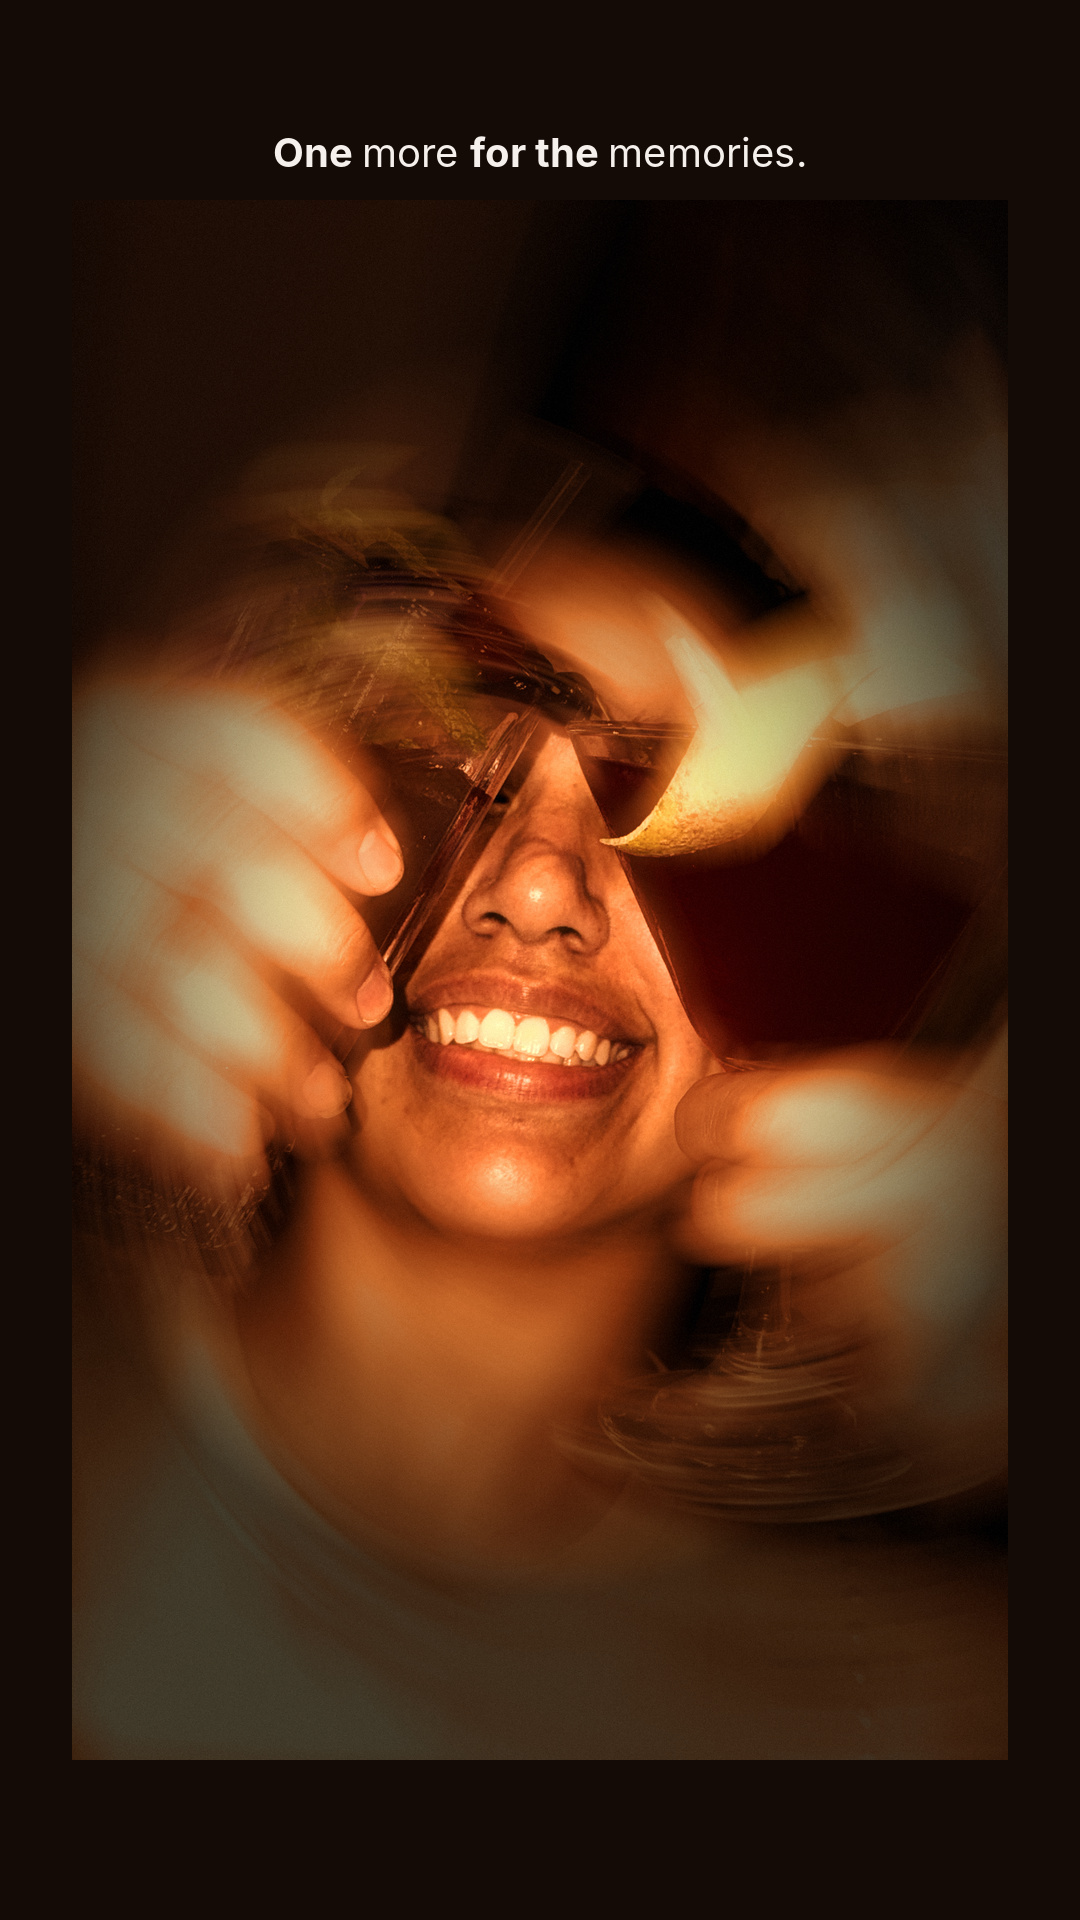
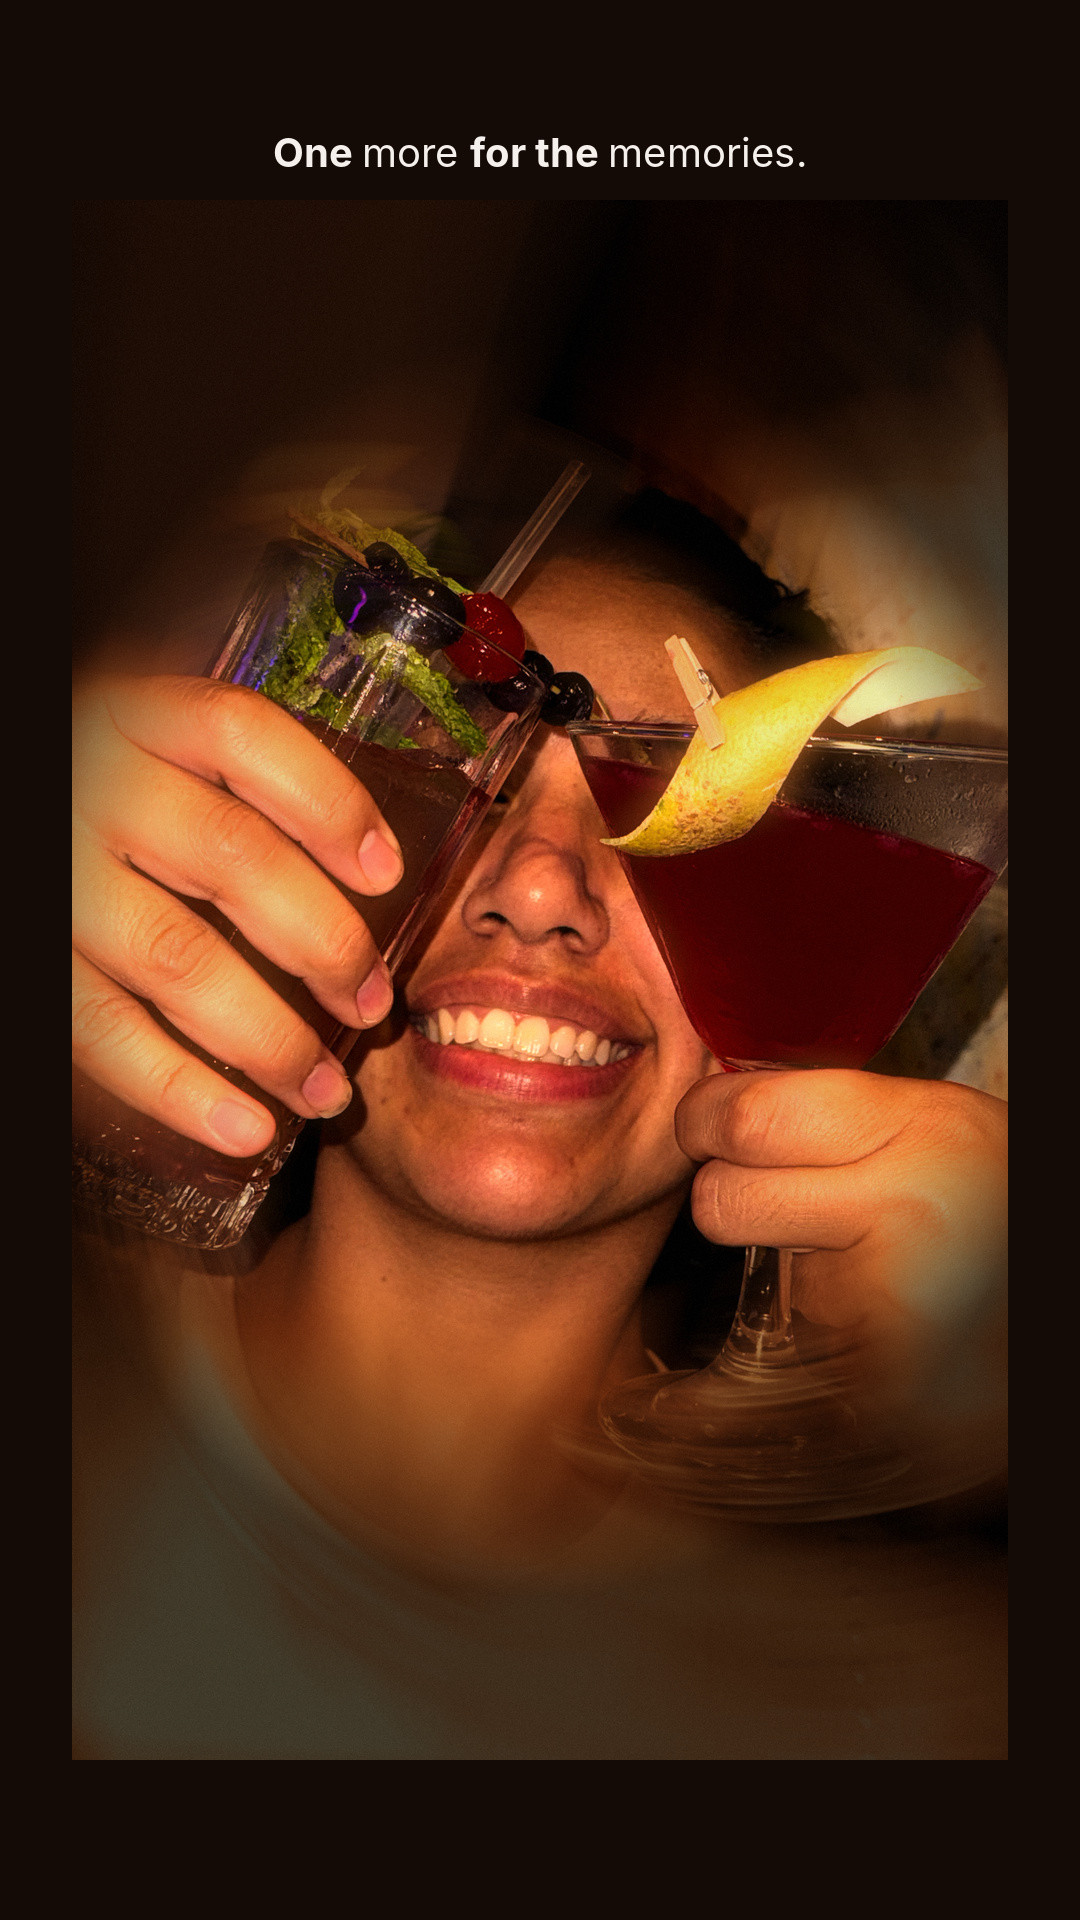
Póster 9:16: tragos nítidos y con sus colores reales
Claude-Session: https://claude.ai/code/session_01W39ENi5Xim2MpeMZM9X4oY

Changed region(s): [[0.0611, 0.25, 0.9472, 0.7188]]

diff --git a/negativo35/spin_poster.py b/negativo35/spin_poster.py
@@ -41,15 +41,19 @@ blur = acc / n
 # sharp core around the face, a ghosted sharp echo outside it
 yy, xx = np.mgrid[0:wh, 0:ww].astype(np.float32)
 d = np.sqrt(((xx-cx)/(ww*0.30))**2 + ((yy-cy)/(ww*0.36))**2)
-core = np.clip(1 - (d-0.55)/0.45, 0, 1)**1.6
+# sharp zone widened to hold both drinks (source px: centre 1380,1900; radii 1400x1150)
+ex, ey, rx, ry = (1380 - x0)*k, 1900*k, 1400*k, 1150*k
+dc = np.sqrt(((xx-ex)/rx)**2 + ((yy-ey)/ry)**2)
+core = np.clip(1 - (dc-0.80)/0.35, 0, 1)**1.4
 core = core[..., None]
 mix = lin*core + blur*(1-core)
 mix = mix*0.86 + lin*0.14*(1-core)      # faint double-exposure ghost
 
 # ---- highlight bloom
 Y = mix @ np.array([0.2126,0.7152,0.0722], np.float32)
-mix = mix*1.45
-Y = Y*1.45
+gain = 1.45 - 0.37*core[..., 0]
+mix = mix*gain[..., None]
+Y = Y*gain
 hi = np.clip((Y-0.30)/0.6, 0, 1)
 bl = np.asarray(Image.fromarray((hi*255).astype(np.uint8)).filter(ImageFilter.GaussianBlur(24)), np.float32)/255
 mix = mix + bl[..., None]*np.array([0.75, 0.36, 0.11], np.float32)
@@ -63,11 +67,16 @@ gm = np.stack([np.interp(L, stops, cols[:,c]) for c in range(3)], -1)
 warm = out * np.array([1.08, 0.92, 0.72], np.float32)
 graded = gm*0.66 + warm*0.34
 # keep skin/drinks a bit truer inside the sharp core
-graded = graded*(1-0.25*core) + (out*np.array([1.04,0.97,0.88],np.float32))*0.25*core
+# drinks and skin keep their real colours, with only a warm tilt
+natural = np.clip(out*np.array([1.05,0.98,0.90],np.float32), 0, 1)
+nL = natural @ np.array([0.299,0.587,0.114], np.float32)
+natural = nL[..., None] + (natural - nL[..., None])*1.12
+graded = graded*(1-0.85*core) + natural*0.85*core
 # contrast: crush toward deep brown blacks
 graded = np.clip((graded - 0.03)/0.97, 0, 1) ** 1.18
 # vignette
-v = np.clip(1 - 0.55*np.clip(d-0.6, 0, 1.4)**1.3, 0.25, 1)[..., None]
+v = np.clip(1 - 0.55*np.clip(d-0.6, 0, 1.4)**1.3, 0.25, 1)
+v = (v*(1-core[...,0]) + np.maximum(v, 0.92)*core[...,0])[..., None]
 graded *= v
 # fine grain
 rng = np.random.default_rng(9)
